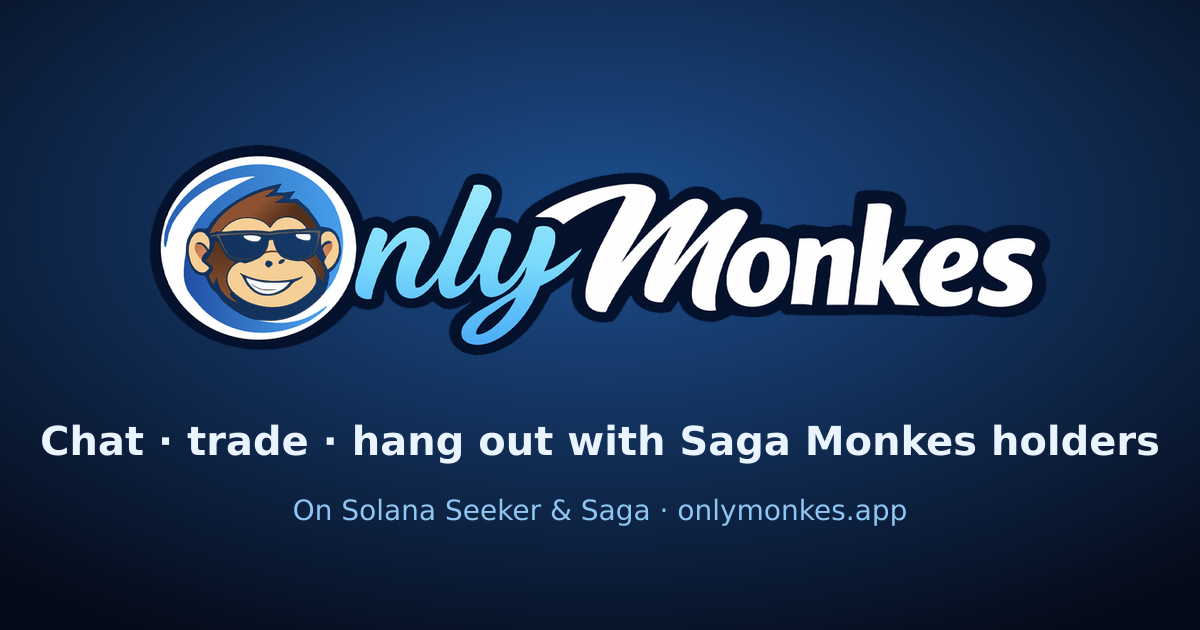
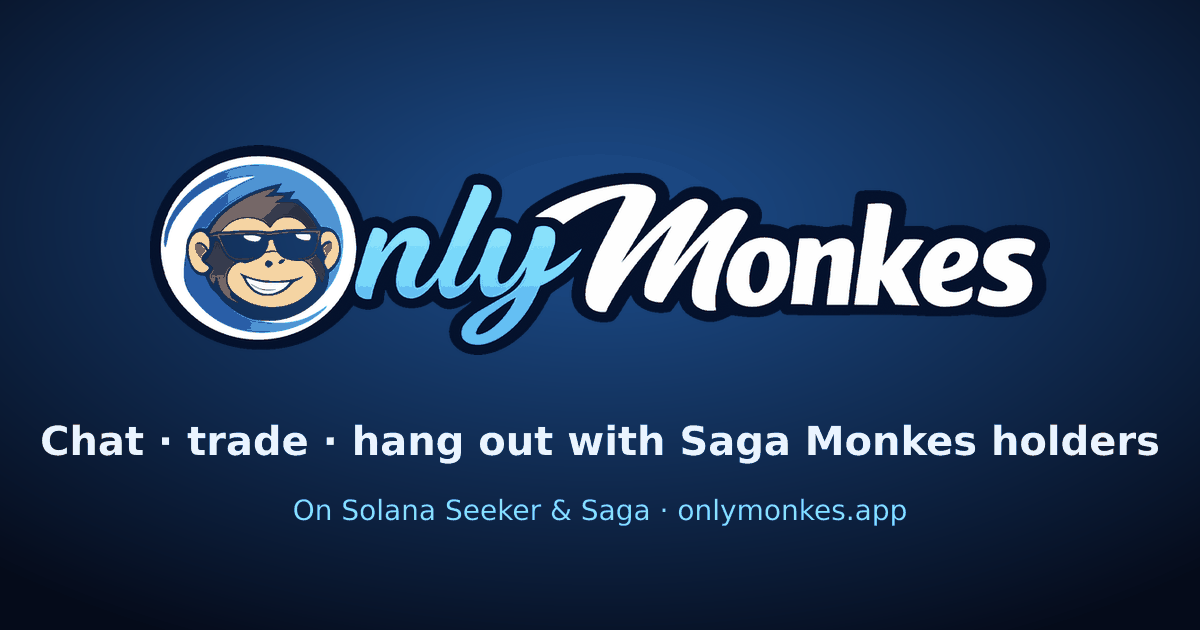
worker: bring web-app's actions-worker changes onto master — expired attestation cert soft-fails (ONLYMONKES-15), smaller site images, /site cache headers
The worker was being deployed from web-app (PR #38 on Oct 29, PR #41 today), which lacks
master's Call Monke bot proof, Grok agent relay and agent inbox, so those were not live.
Master is now the superset; deploy the actions worker from master.

Changed region(s): [[0.1542, 0.2413, 0.2775, 0.5429], [0.2467, 0.7841, 0.555, 0.8444], [0.5858, 0.7841, 0.74, 0.8444]]

diff --git a/worker-actions/src/deviceIntegrity.ts b/worker-actions/src/deviceIntegrity.ts
@@ -223,16 +223,31 @@ export async function verifyKeyAttestationChain(
   // 2026-10-29: a throw (key import / unsupported algorithm) used to count as an invalid
   // signature, and two Seeker holders were hard-blocked with "chain signature invalid at
   // position 1". Only a signature that was checked and failed is a hardware failure now.
+  // 2026-10-31: x509's verify() returns false (not a throw) when the key import fails, and
+  // without signatureOnly it also returns false for a cert outside its validity dates — both
+  // were reported as "chain signature invalid at position 1" and hard-blocked Seeker holders
+  // (ONLYMONKES-15). Import the key here and check dates separately.
+  const now = Date.now();
+  let outOfDate: string | null = null;
   for (let i = 0; i < certs.length - 1; i++) {
     let sigOk: boolean;
     try {
-      sigOk = await certs[i].verify({ publicKey: certs[i + 1] });
+      const issuerKey = await certs[i + 1].publicKey.export(
+        { ...certs[i + 1].publicKey.algorithm, ...certs[i].signatureAlgorithm },
+        ["verify"],
+        crypto as unknown as Crypto,
+      );
+      sigOk = await certs[i].verify({ publicKey: issuerKey, signatureOnly: true });
     } catch (e) {
       const why = e instanceof Error ? `${e.name}: ${e.message}` : String(e);
       return { ok: false, unchecked: true, securityLevel: "none", reason: `could not check signature at position ${i} (${sigAlgLabel(certs[i], certs[i + 1])}; ${why.slice(0, 120)})` };
     }
     if (!sigOk) {
       return { ok: false, securityLevel: "none", reason: `chain signature invalid at position ${i} (${sigAlgLabel(certs[i], certs[i + 1])})` };
+    }
+    // The leaf's dates come from the device's KeyMint and are often placeholders; only issued certs count.
+    if (i > 0 && !outOfDate && (now < certs[i].notBefore.getTime() || now > certs[i].notAfter.getTime())) {
+      outOfDate = `cert at position ${i} valid ${certs[i].notBefore.toISOString().slice(0, 10)}..${certs[i].notAfter.toISOString().slice(0, 10)}`;
     }
   }
 
@@ -275,6 +290,12 @@ export async function verifyKeyAttestationChain(
     challengeBytes.every((b, i) => b === EXPECTED_PACKAGE_BYTES[i]);
   if (!challengeOk) {
     return { ok: false, securityLevel: "none", reason: "attestation challenge does not match expected app package" };
+  }
+
+  // Signatures and root check out but an issued cert is out of date (a stale attestation key on
+  // the phone): not proof of tampering, so soft-fail rather than block chat.
+  if (outOfDate) {
+    return { ok: false, unchecked: true, securityLevel: "none", reason: `attestation certificate out of date (${outOfDate})` };
   }
 
   // Lower of the two levels — a StrongBox attestation statement backed by a merely-TEE keymaster
